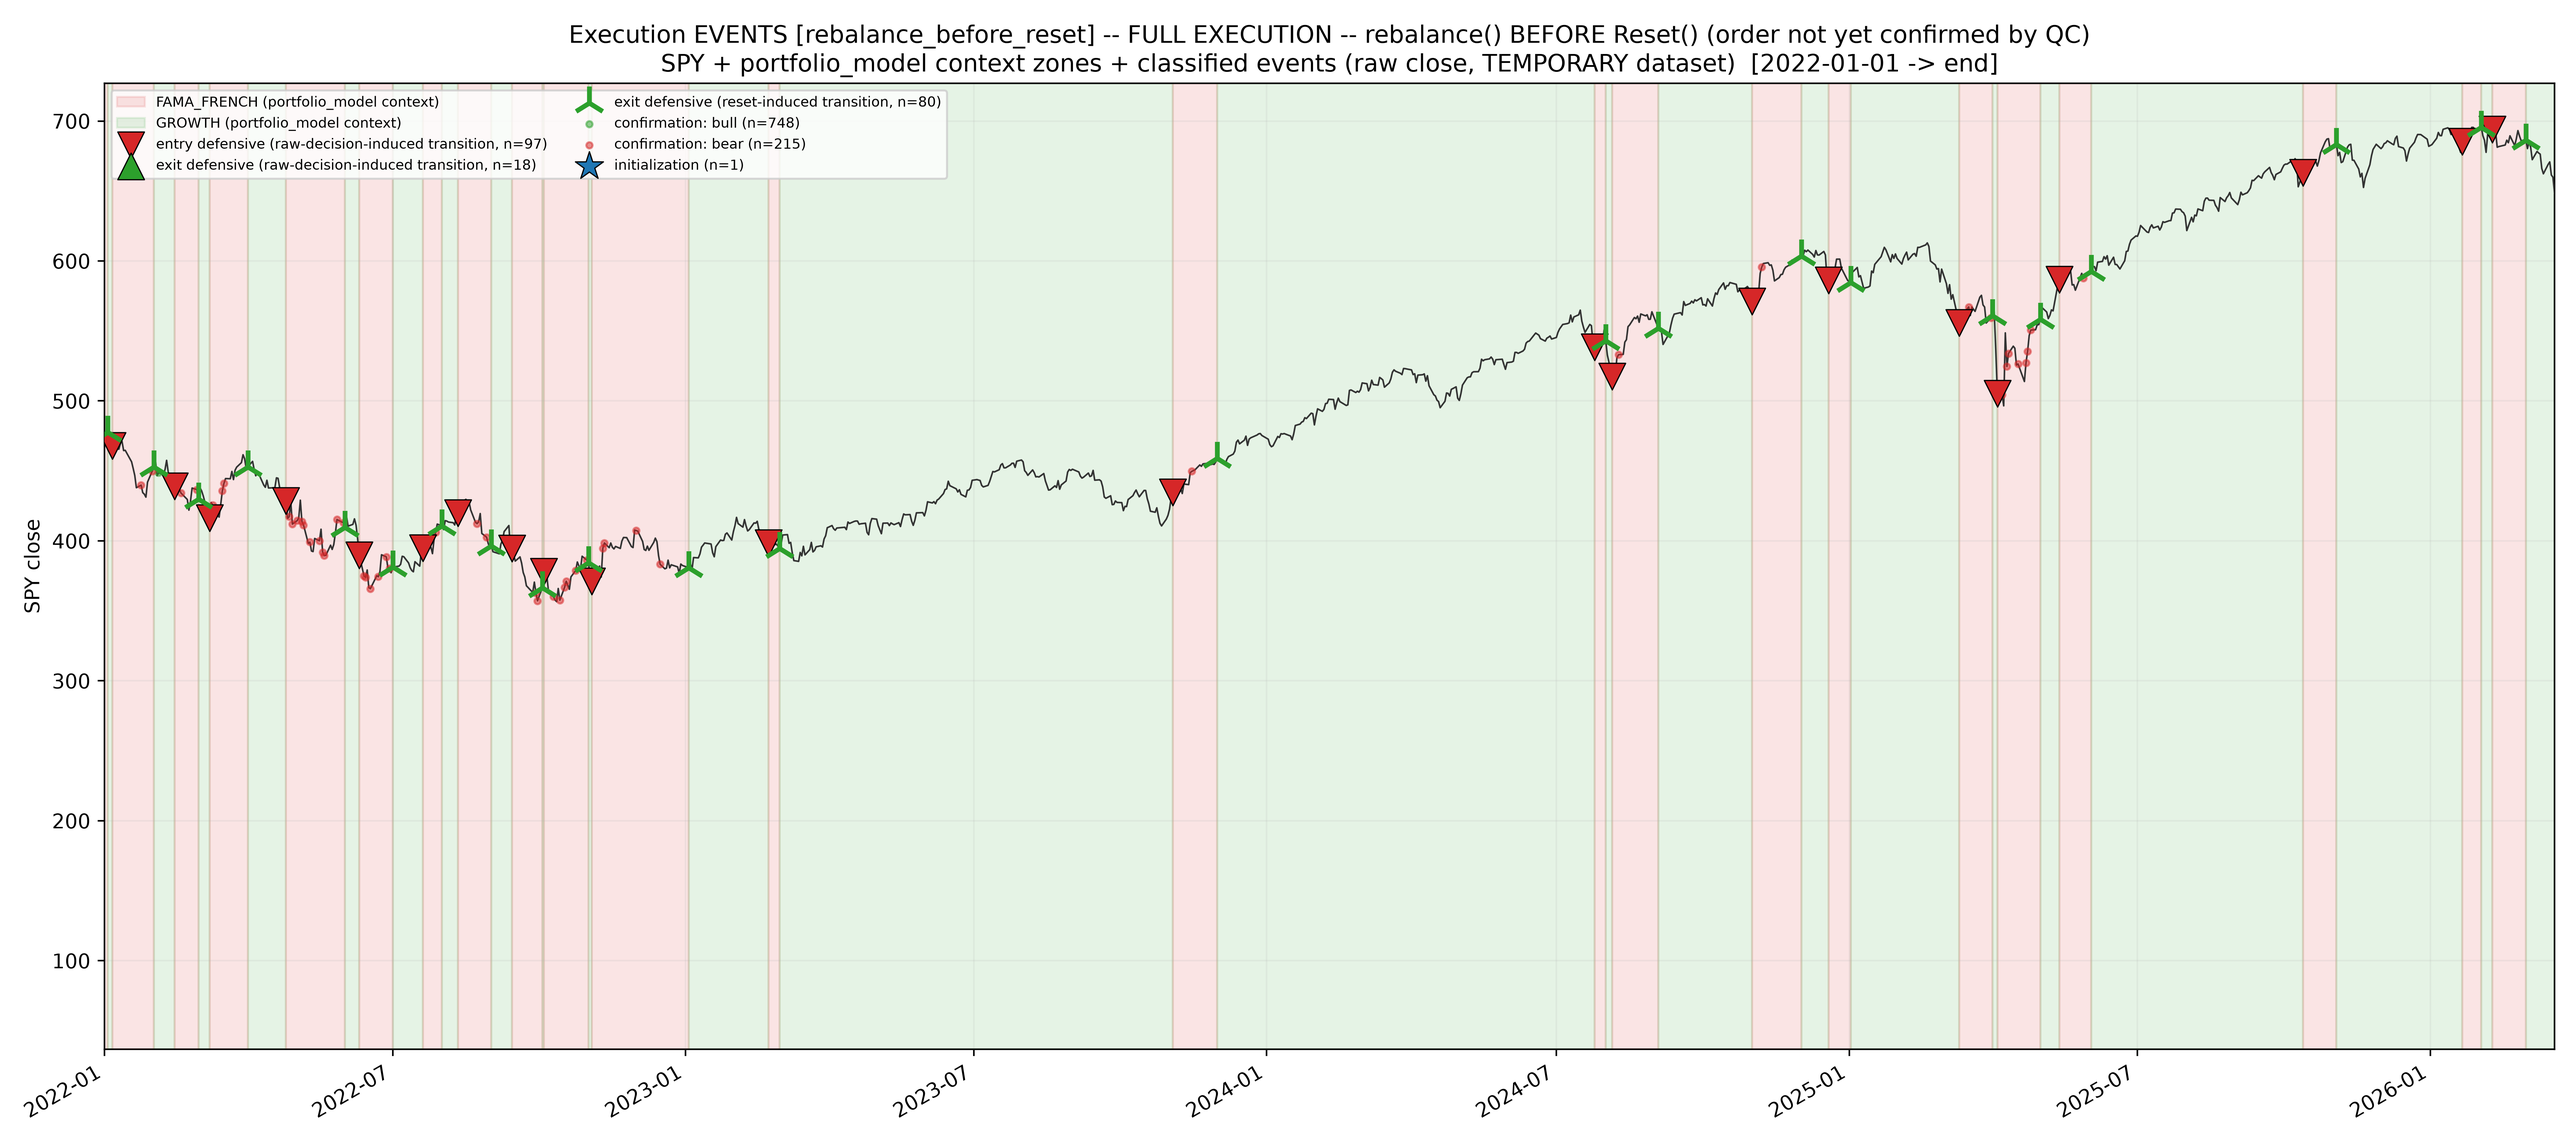
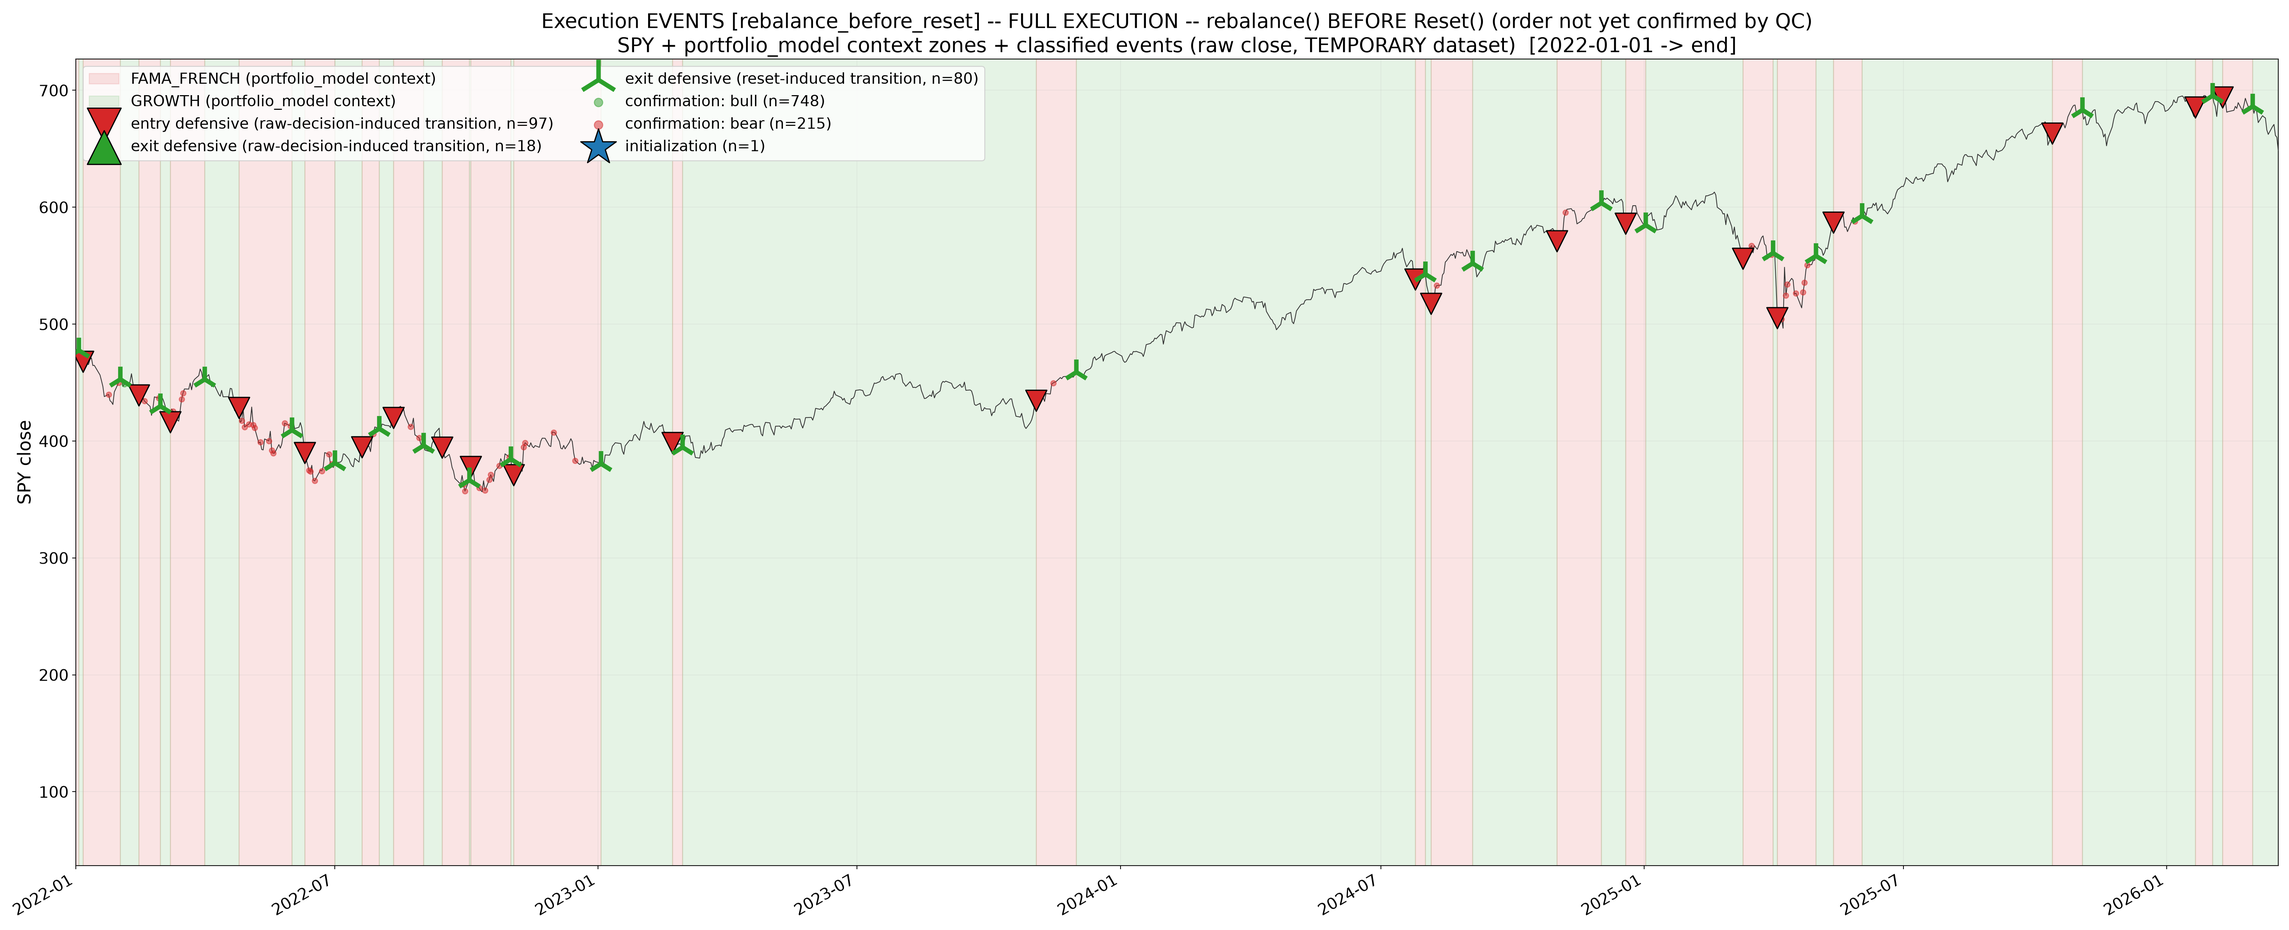
Make execution-event charts legible when downscaled, not just higher-res
Raising dpi alone (previous commit) didn't fix legibility: the chat
viewer downscales any image to fit its display box, so raw pixel count
doesn't make text/markers bigger there -- only the layout's actual
proportions do. Fixed the real cause instead:

- figsize 18x8 -> 32x13 (wider, more room per data point in the dense
  2022+ event region)
- title/axis/tick/legend font sizes roughly doubled
- entry/exit marker sizes roughly 2.5x, confirmation dots ~3x,
  initialization star ~2.5x, edge linewidths scaled to match
- dpi backed off to 200 (6400x2600px, well under the upload limit)

Claude-Session: https://claude.ai/code/session_012KZfE9nvzJdfJCSnqTNY2h

diff --git a/plot_execution_events.py b/plot_execution_events.py
@@ -87,8 +87,8 @@ def _draw(ax_price, price, intervals, events, xlim, title):
         sub = enter[enter["trigger"] == trig]
         if len(sub):
             shape_label = "raw-decision-induced transition" if trig == "RAW_DECISION" else "reset-induced transition"
-            lw = 0.6 if trig == "RAW_DECISION" else 2.4
-            size = 180 if trig == "RAW_DECISION" else 280
+            lw = 1.2 if trig == "RAW_DECISION" else 4.5
+            size = 450 if trig == "RAW_DECISION" else 650
             ax_price.scatter(sub["decision_date"], px(sub), marker=marker, color="#d62728",
                              s=size, zorder=6, edgecolors="black", linewidths=lw,
                              label=f"entry defensive ({shape_label}, n={len(sub)})")
@@ -97,31 +97,32 @@ def _draw(ax_price, price, intervals, events, xlim, title):
         sub = exitd[exitd["trigger"] == trig]
         if len(sub):
             shape_label = "raw-decision-induced transition" if trig == "RAW_DECISION" else "reset-induced transition"
-            lw = 0.6 if trig == "RAW_DECISION" else 2.4
-            size = 180 if trig == "RAW_DECISION" else 280
+            lw = 1.2 if trig == "RAW_DECISION" else 4.5
+            size = 450 if trig == "RAW_DECISION" else 650
             ax_price.scatter(sub["decision_date"], px(sub), marker=marker, color="#2ca02c",
                              s=size, zorder=6, edgecolors="black", linewidths=lw,
                              label=f"exit defensive ({shape_label}, n={len(sub)})")
 
     if len(bull_conf):
         ax_price.scatter(bull_conf["decision_date"], px(bull_conf), marker="o", color="#2ca02c",
-                         s=10, alpha=0.5, zorder=4, label=f"confirmation: bull (n={len(bull_conf)})")
+                         s=28, alpha=0.5, zorder=4, label=f"confirmation: bull (n={len(bull_conf)})")
     if len(bear_conf):
         ax_price.scatter(bear_conf["decision_date"], px(bear_conf), marker="o", color="#d62728",
-                         s=10, alpha=0.5, zorder=4, label=f"confirmation: bear (n={len(bear_conf)})")
+                         s=28, alpha=0.5, zorder=4, label=f"confirmation: bear (n={len(bear_conf)})")
 
     if len(initial):
         ax_price.scatter(initial["decision_date"], px(initial), marker="*", color="#1f77b4",
-                         s=220, zorder=7, edgecolors="black", linewidths=0.6,
+                         s=550, zorder=7, edgecolors="black", linewidths=1.2,
                          label=f"initialization (n={len(initial)})")
 
-    ax_price.set_ylabel("SPY close")
-    ax_price.set_title(title)
-    ax_price.legend(loc="upper left", fontsize=7, ncol=2)
+    ax_price.set_ylabel("SPY close", fontsize=18)
+    ax_price.set_title(title, fontsize=20)
+    ax_price.legend(loc="upper left", fontsize=15, ncol=2, markerscale=1.6)
     ax_price.grid(alpha=0.15)
     ax_price.set_xlim(*xlim)
     ax_price.xaxis.set_major_locator(mdates.AutoDateLocator())
     ax_price.xaxis.set_major_formatter(mdates.DateFormatter("%Y-%m"))
+    ax_price.tick_params(axis="both", labelsize=16)
 
 
 def main(argv=None):
@@ -154,12 +155,12 @@ def main(argv=None):
             f"SPY + portfolio_model context zones + classified events "
             f"(raw close, TEMPORARY dataset)  [{args.zoom_start} -> end]")
 
-    fig, ax = plt.subplots(figsize=(18, 8))
+    fig, ax = plt.subplots(figsize=(32, 13))
     zoom_xlim = (pd.Timestamp(args.zoom_start), price.index.max())
     _draw(ax, price, intervals, events, zoom_xlim, title)
     fig.autofmt_xdate()
     fig.tight_layout()
-    fig.savefig(args.out, dpi=400)
+    fig.savefig(args.out, dpi=200)
     print(f"wrote {args.out}")
     return 0
 
